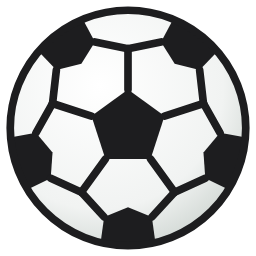
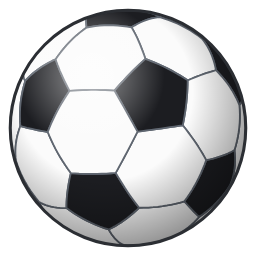
تمرين نخبة السبت: كورة ثلاثية الأبعاد أوضح
Claude-Session: https://claude.ai/code/session_015tWjRbq73DwG8GKNM35sch

diff --git a/elite.html b/elite.html
@@ -12,8 +12,8 @@
 <meta name="mobile-web-app-capable" content="yes">
 <meta name="apple-mobile-web-app-status-bar-style" content="default">
 <meta name="apple-mobile-web-app-title" content="تمرين نخبة السبت">
-<link rel="apple-touch-icon" href="icon-elite-192.png">
-<link rel="icon" type="image/png" href="icon-elite-192.png">
+<link rel="apple-touch-icon" href="icon-elite-192.png?v=2">
+<link rel="icon" type="image/png" href="icon-elite-192.png?v=2">
 <link rel="preconnect" href="https://fonts.gstatic.com" crossorigin>
 <link href="https://fonts.googleapis.com/css2?family=Tajawal:wght@400;500;700;800&display=swap" rel="stylesheet">
 <script src="https://www.gstatic.com/firebasejs/9.23.0/firebase-app-compat.js"></script>
@@ -541,7 +541,7 @@ document.addEventListener('DOMContentLoaded',function(){applyTheme();});
 
 <header class="nav" id="nav">
   <div class="wrap">
-    <img class="logo" src="ball.png" alt="">
+    <img class="logo" src="ball.png?v=2" alt="">
     <div class="org">تمرين نخبة السبت</div>
     <div class="ntitle" id="navTitle">تمرين نخبة السبت</div>
     <button class="theme-btn" id="themeBtn" onclick="openTheme()" aria-label="المظهر"><svg class="i s" viewBox="0 0 24 24"><path d="M20.5 14.2A8.5 8.5 0 0 1 9.8 3.5a8.5 8.5 0 1 0 10.7 10.7z"/></svg></button>
@@ -1945,7 +1945,7 @@ function lineupImage(sid){
   if(!ids.length){toast('⚠ وزّع الفريقين أولاً');return;}
   toast('جارِ تجهيز الصورة…');
   var fontP=(document.fonts&&document.fonts.load)?Promise.all(['800 60px Tajawal','700 30px Tajawal','500 26px Tajawal'].map(function(f){return document.fonts.load(f).catch(function(){});})):Promise.resolve();
-  Promise.all([fontP,loadImg('ball.png')].concat(ids.map(function(id){return loadImg(photoSrc(P(id)));}))).then(function(r){
+  Promise.all([fontP,loadImg('ball.png?v=2')].concat(ids.map(function(id){return loadImg(photoSrc(P(id)));}))).then(function(r){
     var ph={}; ids.forEach(function(id,i){ph[id]=r[i+2];});
     var url; try{url=drawLineup(s,r[1],ph);}catch(e){console.error(e);toast('⚠ تعذّر تجهيز الصورة');return;}
     LINEUP_URL=url; LINEUP_NAME='تشكيلة-'+s.date+'.png';
@@ -2045,7 +2045,7 @@ function posterShare(kind,sid){
   toast('جارِ تجهيز الصورة…');
   var ids=participants(s).concat(teamPlayers(s,'A'),teamPlayers(s,'B')).filter(function(id,i,a){return P(id)&&a.indexOf(id)===i;});
   var fontP=(document.fonts&&document.fonts.load)?Promise.all(['900 90px Tajawal','800 34px Tajawal','700 24px Tajawal'].map(function(f){return document.fonts.load(f).catch(function(){});})):Promise.resolve();
-  Promise.all([fontP,loadImg('ball.png')].concat(ids.map(function(id){return loadImg(photoSrc(P(id)));}))).then(function(r){
+  Promise.all([fontP,loadImg('ball.png?v=2')].concat(ids.map(function(id){return loadImg(photoSrc(P(id)));}))).then(function(r){
     var ph={}; ids.forEach(function(id,i){ph[id]=r[i+2];});
     var url, name={sum:'ملخص',list:'قائمة',rot:'التبديل'}[kind]+'-'+s.date+'.png', title={sum:'ملخص التمرين',list:'قائمة اللاعبين',rot:'ترتيب التبديل'}[kind];
     try{ url=drawPoster(kind,s,r[1],ph); }catch(e){console.error(e);toast('⚠ تعذّر تجهيز الصورة');return;}

diff --git a/build-elite.py b/build-elite.py
@@ -16,9 +16,9 @@ CHANGES = [
     ('saff_tr_', 'saff_el_', 10),                        # إعدادات الجوال (الدخول، اسمي، الأقسام...)
     # بدون شعار الاتحاد: كورة بدلاً منه
     ('<picture><source srcset="saff-white.png" media="(prefers-color-scheme: dark)"><img class="logo" src="saff.png" alt="الاتحاد السعودي لكرة القدم"></picture>',
-     '<img class="logo" src="ball.png" alt="">', 1),
-    ('icon-saff-192.png', 'icon-elite-192.png', 2),       # أيقونة الشاشة الرئيسية
-    ("loadImg('saff-white.png')", "loadImg('ball.png')", 2),  # صور المشاركة
+     '<img class="logo" src="ball.png?v=2" alt="">', 1),
+    ('icon-saff-192.png', 'icon-elite-192.png?v=2', 2),       # أيقونة الشاشة الرئيسية
+    ("loadImg('saff-white.png')", "loadImg('ball.png?v=2')", 2),  # صور المشاركة
     ('الاتحاد السعودي لكرة القدم · ', '', 1),             # تذييل صور المشاركة
 ]
 
